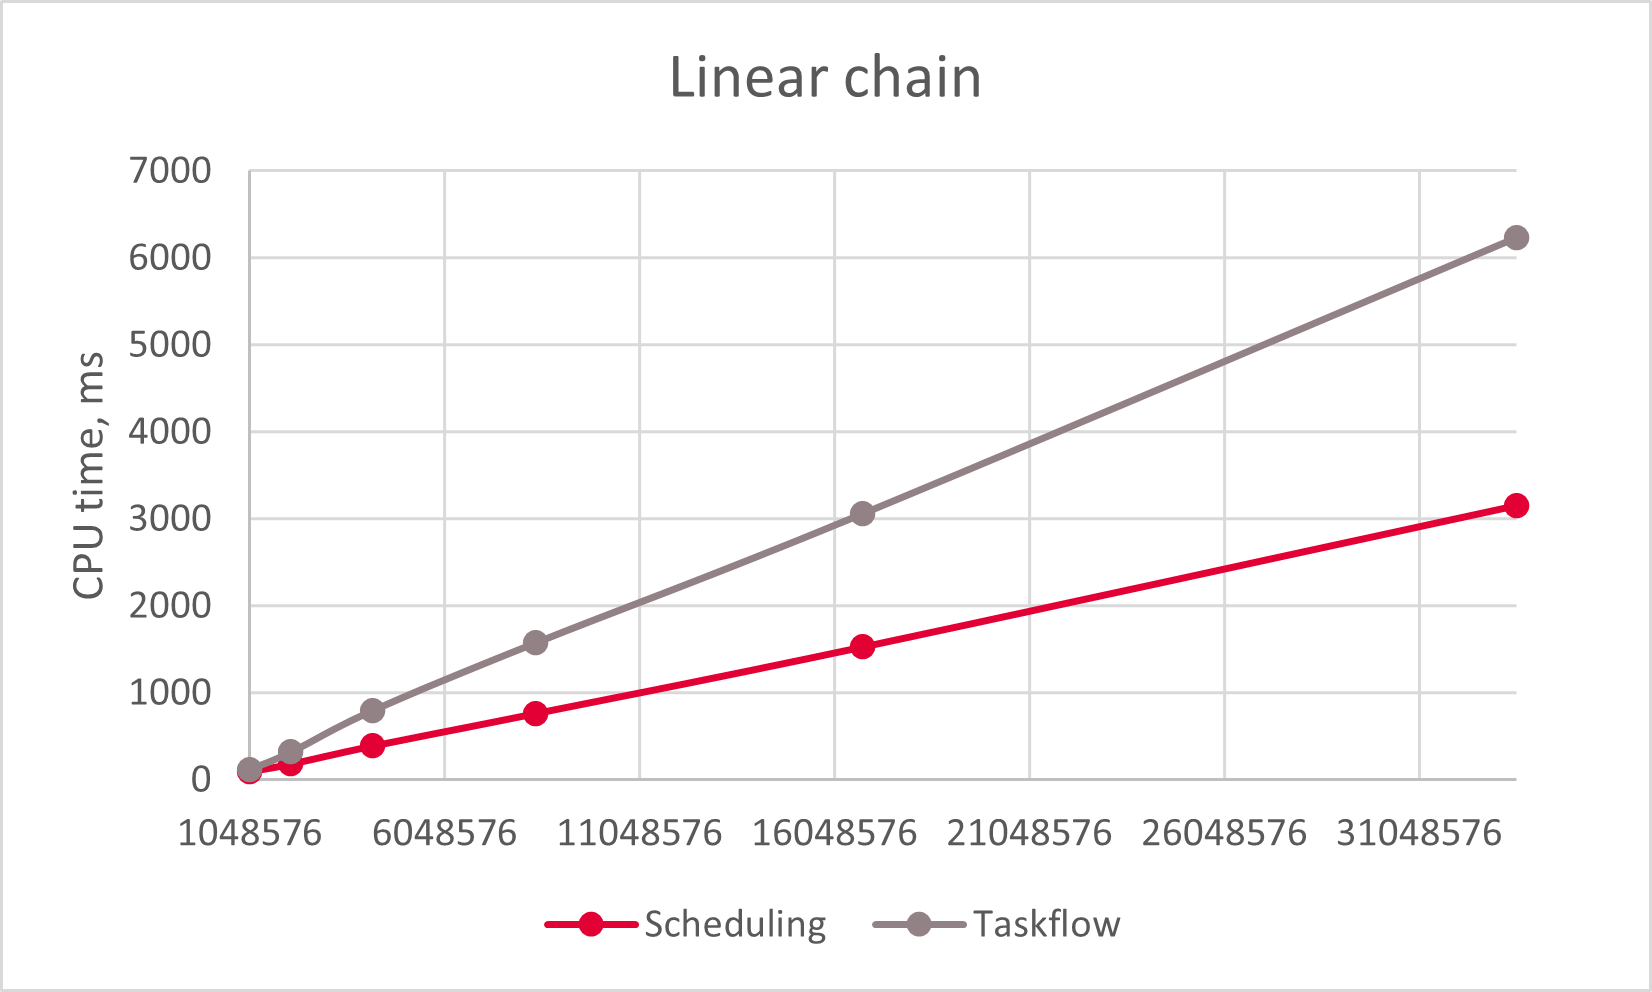
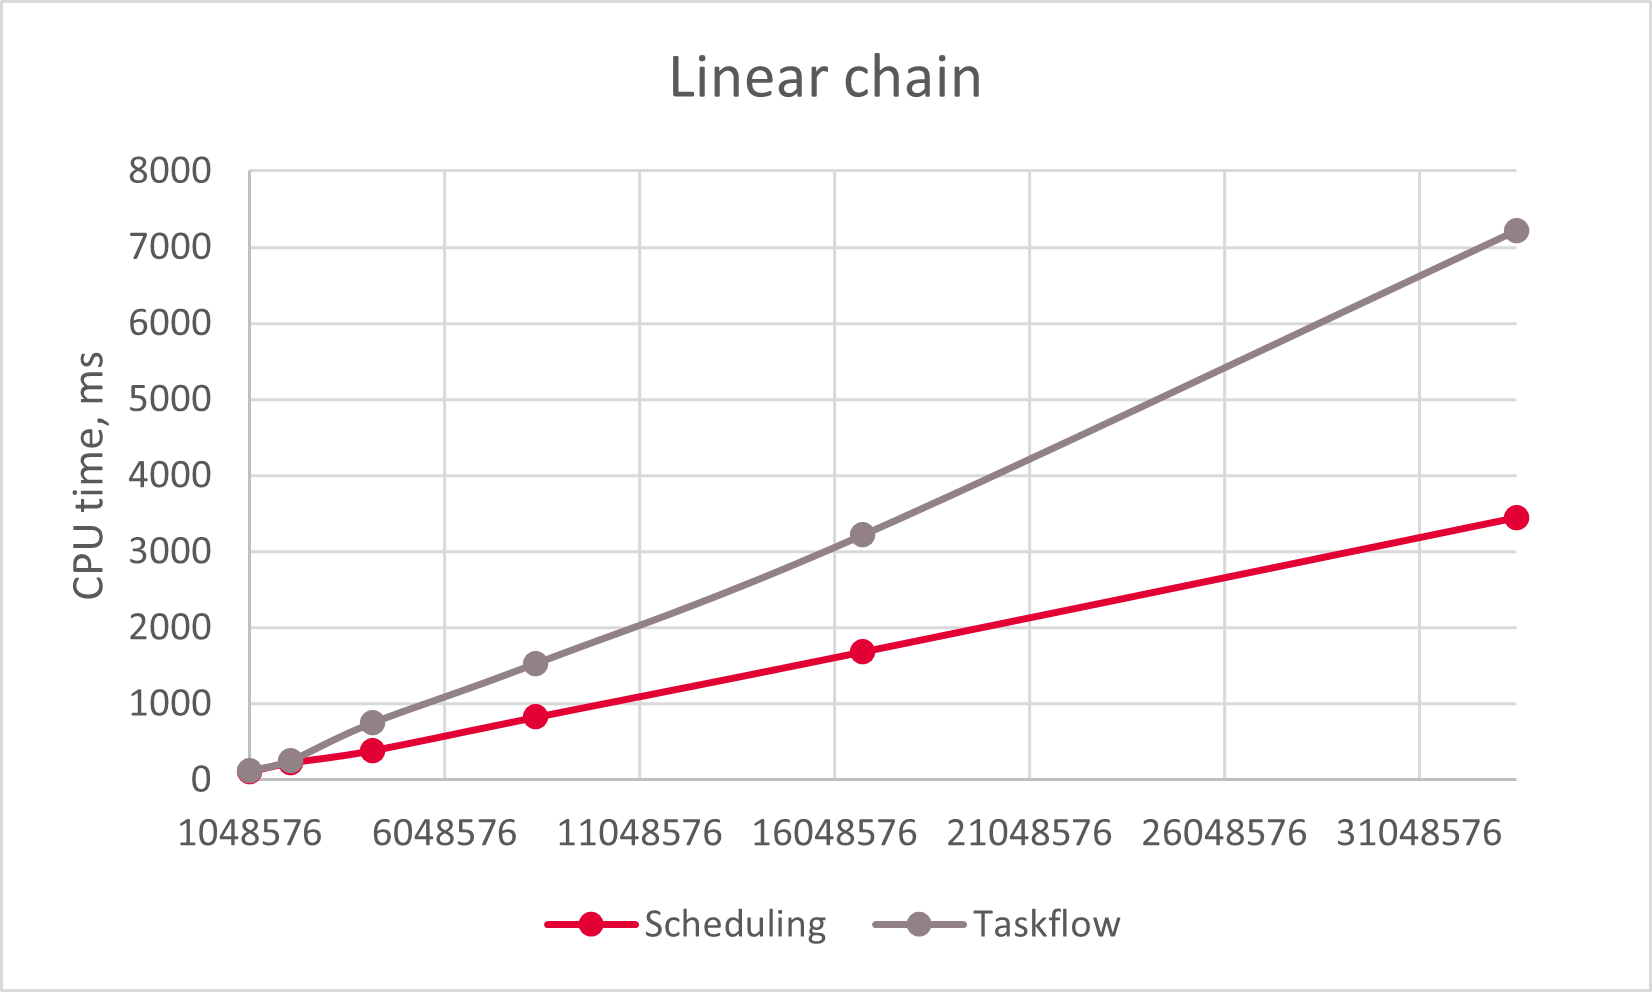
Resubmit task graphs
* Allow to resubmit task graphs:
  * Rename `predecessors_` to `remaining_predecessors_` and add `total_predecessors_` to restore `remaining_predecessors_` from.
  * Replace `cancelled_` by `cancellation_flags_` to handle task cancellation.
* Make several attempts to get a task before putting a worker thread into sleep to improve performance.
* Add `ThreadPoolTest.ResubmitGraph` to test resubmitting a task graph.
* Update README.md.

diff --git a/include/scheduling/scheduling.h b/include/scheduling/scheduling.h
@@ -9,6 +9,9 @@
 
 namespace scheduling {
 namespace internal {
+constexpr auto kExecuted = 1;
+constexpr auto kCancelled = 2;
+
 template <typename T>
   requires std::is_pointer_v<T>
 class Array {
@@ -172,24 +175,35 @@ class Task {
                                    TaskType, std::function<void()>>>>
   explicit Task(TaskType&& func) : func_{std::forward<TaskType>(func)} {}
 
-  Task(const Task& other) : func_{other.func_}, next_{other.next_} {
-    predecessors_.store(other.predecessors_);
+  Task(const Task& other)
+      : total_predecessors_{other.total_predecessors_},
+        func_{other.func_},
+        next_{other.next_} {
+    remaining_predecessors_.store(other.remaining_predecessors_);
+    cancellation_flags_.store(other.cancellation_flags_);
   }
 
   Task(Task&& other) noexcept
-      : func_{std::move(other.func_)}, next_{std::move(other.next_)} {
-    predecessors_.store(other.predecessors_);
+      : total_predecessors_{other.total_predecessors_},
+        func_{std::move(other.func_)},
+        next_{std::move(other.next_)} {
+    remaining_predecessors_.store(other.remaining_predecessors_);
+    cancellation_flags_.store(other.cancellation_flags_);
   }
 
   Task& operator=(const Task& other) {
-    predecessors_.store(other.predecessors_);
+    total_predecessors_ = other.total_predecessors_;
+    remaining_predecessors_.store(other.remaining_predecessors_);
+    cancellation_flags_.store(other.cancellation_flags_);
     func_ = other.func_;
     next_ = other.next_;
     return *this;
   }
 
   Task& operator=(Task&& other) noexcept {
-    predecessors_.store(other.predecessors_);
+    total_predecessors_ = other.total_predecessors_;
+    remaining_predecessors_.store(other.remaining_predecessors_);
+    cancellation_flags_.store(other.cancellation_flags_);
     func_ = std::move(other.func_);
     next_ = std::move(other.next_);
     return *this;
@@ -205,7 +219,8 @@ class Task {
    */
   void Succeed(Task* task) {
     task->next_.push_back(this);
-    ++predecessors_;
+    ++total_predecessors_;
+    ++remaining_predecessors_;
   }
 
   /**
@@ -217,7 +232,8 @@ class Task {
   template <typename... TasksType>
   void Succeed(Task* task, const TasksType&... tasks) {
     task->next_.push_back(this);
-    ++predecessors_;
+    ++total_predecessors_;
+    ++remaining_predecessors_;
     Succeed(tasks...);
   }
 
@@ -228,7 +244,8 @@ class Task {
    */
   void Precede(Task* task) {
     next_.push_back(task);
-    ++task->predecessors_;
+    ++task->total_predecessors_;
+    ++task->remaining_predecessors_;
   }
 
   /**
@@ -239,25 +256,44 @@ class Task {
   template <typename... TasksType>
   void Precede(Task* task, const TasksType&... tasks) {
     next_.push_back(task);
-    ++task->predecessors_;
+    ++task->total_predecessors_;
+    ++task->remaining_predecessors_;
     Precede(tasks...);
   }
 
   /**
-   * \brief Attempts to cancel the task.
+   * \brief Cancels the task.
    *
-   * A task can be cancelled only if it has not started yet. If the task is
-   * cancelled, the task and its successors are not executed.
+   * Cancelling a task never fails. When `false` is returned, it means that the
+   * task was already executed or has to be executed at least once after the
+   * cancellation. When a task is cancelled and will not be executed anymore,
+   * its successors also will not be executed. Call `Reset` to undo
+   * cancellation.
    *
-   * \return `true` if the task is cancelled, `false` otherwise.
+   * \see Reset
+   *
+   * \return `false` if the task was already executed or has to be executed once
+   * after the cancellation, `true` otherwise.
    */
-  bool Cancel() { return !cancelled_.test_and_set(); }
+  bool Cancel() {
+    return !(cancellation_flags_.fetch_or(internal::kCancelled) &
+             internal::kExecuted);
+  }
+
+  /**
+   * \brief Clears cancellation flags.
+   *
+   * Call `Reset` to undo task cancellation.
+   *
+   * \see Cancel
+   */
+  void Reset() { cancellation_flags_.store(0); }
 
  private:
   friend class ThreadPool;
   bool delete_{false}, is_root_{false};
-  std::atomic_flag cancelled_;
-  std::atomic<int> predecessors_;
+  int total_predecessors_{0};
+  std::atomic<int> remaining_predecessors_{0}, cancellation_flags_{0};
   std::function<void()> func_;
   std::vector<Task*> next_;
 };
@@ -358,7 +394,7 @@ class ThreadPool {
   template <typename TasksType>
   void Submit(TasksType& tasks) {
     for (auto& task : tasks) {
-      task.is_root_ = task.predecessors_ == 0;
+      task.is_root_ = task.total_predecessors_ == 0;
     }
     for (auto& task : tasks) {
       if (task.is_root_) {
@@ -404,20 +440,25 @@ class ThreadPool {
  private:
   void Run(const unsigned i) {
     index_ = i;
-    for (;;) {
-      tasks_count_.wait(0);
+    for (auto attempts = 0;;) {
+      if (constexpr auto max_attempts = 100; ++attempts > max_attempts) {
+        tasks_count_.wait(0);
+      }
       if (stop_.test()) {
         return;
       }
       if (auto* task = GetTask()) {
         Execute(task);
+        attempts = 0;
       }
     }
   }
 
   void Execute(Task* task) {
     for (Task* next = nullptr; task; next = nullptr) {
-      if (task->cancelled_.test_and_set()) {
+      task->remaining_predecessors_.store(task->total_predecessors_);
+      if (task->cancellation_flags_.fetch_or(internal::kExecuted) &
+          internal::kCancelled) {
         break;
       }
       if (task->func_) {
@@ -425,13 +466,13 @@ class ThreadPool {
       }
       auto it = task->next_.begin();
       for (; it != task->next_.end(); ++it) {
-        if ((*it)->predecessors_.fetch_sub(1) == 1) {
+        if ((*it)->remaining_predecessors_.fetch_sub(1) == 1) {
           next = *it++;
           break;
         }
       }
       for (; it != task->next_.end(); ++it) {
-        if ((*it)->predecessors_.fetch_sub(1) == 1) {
+        if ((*it)->remaining_predecessors_.fetch_sub(1) == 1) {
           Submit(*it);
         }
       }

diff --git a/tests/thread_pool_test.cpp b/tests/thread_pool_test.cpp
@@ -177,6 +177,23 @@ TEST(ThreadPoolTest, MatrixMultiplication) {
   }
 }
 
+TEST(ThreadPoolTest, ResubmitGraph) {
+  auto counter = 0;
+  constexpr auto repeat_count = 1'000'000;
+  ThreadPool thread_pool;
+  std::vector<Task> tasks(32);
+  tasks[0] = Task([&] { ++counter; });
+  for (auto i = tasks.begin(), j = std::next(i); j != tasks.end(); ++i, ++j) {
+    *j = Task([&] { ++counter; });
+    j->Succeed(&*i);
+  }
+  for (int i = 0; i < repeat_count; ++i) {
+    thread_pool.Submit(&tasks[0]);
+    thread_pool.Wait();
+  }
+  EXPECT_EQ(counter, tasks.size() * repeat_count);
+}
+
 TEST(ThreadPoolTest, Cancel) {
   {
     SCOPED_TRACE("Cancel a not started task");

diff --git a/README.md b/README.md
@@ -66,7 +66,7 @@ When the `ThreadPool` instance is created, submit a task. For example:
 ```cpp
 thread_pool.Submit([] {
   std::this_thread::sleep_for(std::chrono::seconds(1));
-  std::cout << "Completed!" << std::endl;
+  std::cout << "Completed" << std::endl;
 });
 ```
 A task is a function that does not accept arguments and returns `void`. Use
@@ -228,15 +228,26 @@ d.Precede(&c, &d);
 
 ## Cancel a task
 
-To cancel a task, use `Task::Cancel`. A task can be cancelled only if it has
-not started yet. If a task is cancelled, the task and its successors are not
-executed. For example:
+To cancel a task, call `Task::Cancel`.
+
+Canceling a task never fails. If `Task::Cancel` returns `false`, this means that
+the task was already executed or has to be executed at least once after the
+cancellation. When a task is cancelled and will not be executed anymore, its
+successors also will not be executed.
+
+For example:
 ```cpp
 scheduling::Task task;
 thread_pool.Submit(&task);
 if (task.Cancel()) {
-  std::cout << "Cancelled!" << std::endl;
+  std::cout << "The task will not be executed" << std::endl;
 }
+```
+
+To undo cancellation, call `Task::Reset`:
+
+```cpp
+task.Reset();
 ```
 
 # Benchmarks
@@ -319,12 +330,12 @@ Below is a sample output of Google Benchmark:
 ---------------------------------------------------------------------------
 Benchmark                                 Time             CPU   Iterations
 ---------------------------------------------------------------------------
-scheduling/linear_chain/1048576         121 ms         99.0 ms            6
-scheduling/linear_chain/2097152         248 ms          203 ms            3
-scheduling/linear_chain/4194304         486 ms          398 ms            2
-scheduling/linear_chain/8388608         979 ms          812 ms            1
-scheduling/linear_chain/16777216       1992 ms         1641 ms            1
-scheduling/linear_chain/33554432       4243 ms         3484 ms            1
+scheduling/linear_chain/1048576         156 ms          116 ms            5
+scheduling/linear_chain/2097152         297 ms          229 ms            3
+scheduling/linear_chain/4194304         519 ms          391 ms            2
+scheduling/linear_chain/8388608        1064 ms          828 ms            1
+scheduling/linear_chain/16777216       2173 ms         1688 ms            1
+scheduling/linear_chain/33554432       4431 ms         3453 ms            1
 taskflow/linear_chain/1048576           158 ms          125 ms            6
 taskflow/linear_chain/2097152           314 ms          258 ms            2
 taskflow/linear_chain/4194304           875 ms          750 ms            1
